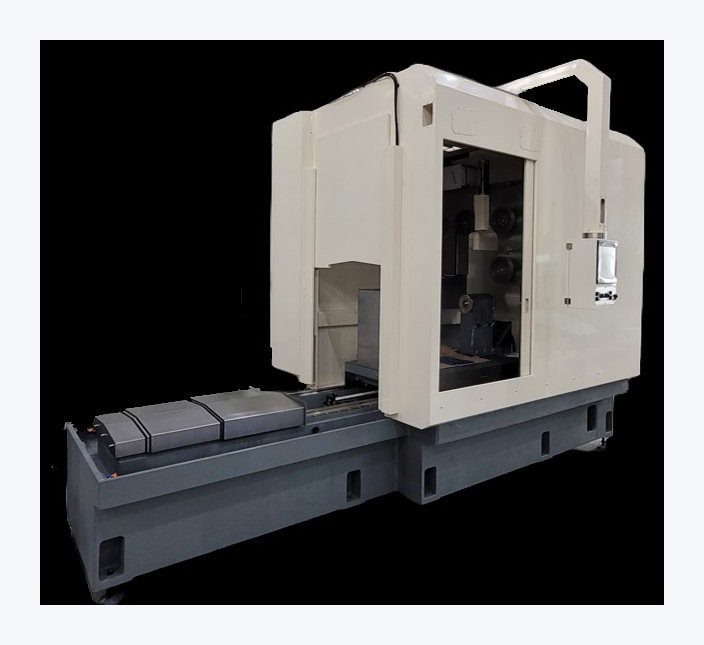
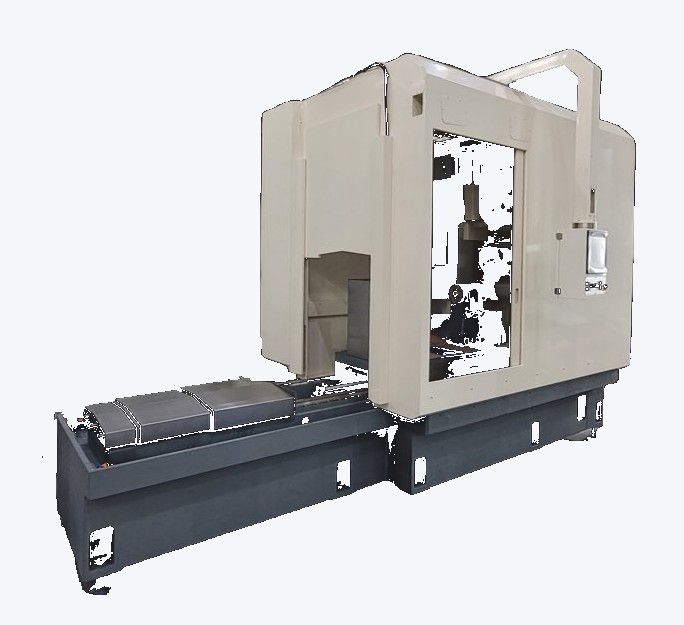
Fix: SLWS black background removed, directions map coordinates corrected, address unified

diff --git a/directions.html b/directions.html
@@ -20,7 +20,7 @@
 </head>
 <body class="snt-body-offset">
 <nav class="snt-nav"><div class="snt-nav__inner"><a href="index.html" class="snt-nav__logo"><img src="images/logo-en-horizontal.png" alt="Saehan Nanotech" onerror="this.style.display='none';this.nextElementSibling.style.display='flex';" style="height:36px;"><span class="snt-nav__logo-text" style="display:none;">Saehan Nanotech</span></a><div class="snt-nav__menu"><div class="snt-nav__item"><span class="snt-nav__link">About Us<svg viewBox="0 0 10 6" fill="none" stroke="currentColor" stroke-width="1.6"><path d="M1 1l4 4 4-4"/></svg></span><div class="snt-nav__dropdown"><a href="ceo.html" class="">CEO Greeting</a><a href="history.html" class="">History</a><a href="certifications.html" class="">Certifications</a><a href="directions.html" class="snt-current">Directions</a></div></div><div class="snt-nav__item"><span class="snt-nav__link">Machine<svg viewBox="0 0 10 6" fill="none" stroke="currentColor" stroke-width="1.6"><path d="M1 1l4 4 4-4"/></svg></span><div class="snt-nav__dropdown"><a href="machines.html" class="">Machine</a><a href="double-sided-drilling.html" class="">Both-Side Drilling Machine</a><a href="multi-wire-saw.html" class="">Multi Wire Sawing Machine</a><a href="single-wire-saw.html" class="">Single Wire Sawing Machine</a><a href="grinding-center.html" class="">Grinding Center Machine</a><a href="core-drilling.html" class="">Core Drilling Machine</a><a href="polishing.html" class="">Single Polishing Machine</a><a href="vertical-grinding.html" class="">Vertical Grinding Machine</a><a href="nano-imprinting.html" class="">Nano Imprinting Machine</a></div></div><div class="snt-nav__item"><span class="snt-nav__link">Business<svg viewBox="0 0 10 6" fill="none" stroke="currentColor" stroke-width="1.6"><path d="M1 1l4 4 4-4"/></svg></span><div class="snt-nav__dropdown"><a href="https://www.saehannanotech.com/Business" class="">Business</a><a href="https://www.saehannanotech.com/Researchperformance" class="">Research</a><a href="https://www.saehannanotech.com/Relatedbusiness" class="">Related Business</a></div></div><div class="snt-nav__item"><span class="snt-nav__link">Community<svg viewBox="0 0 10 6" fill="none" stroke="currentColor" stroke-width="1.6"><path d="M1 1l4 4 4-4"/></svg></span><div class="snt-nav__dropdown"><a href="notice.html" class="">Notice</a><a href="https://www.saehannanotech.com/CustomerSupport" class="">Customer Support</a><a href="https://www.saehannanotech.com/Recruit" class="">Careers</a></div></div></div><div class="snt-nav__right"><a href="https://www.saehannanotech.com" target="_blank" class="snt-nav__lang">KR</a><a href="mailto:info@saehannanotech.com" class="snt-nav__cta">Contact Us</a></div><button class="snt-nav__hamburger" aria-label="Menu"><span></span><span></span><span></span></button></div></nav><div class="snt-nav__mobile"><div class="snt-mobile-group"><span class="snt-mobile-label">About Us</span><a href="ceo.html" class="snt-mobile-link">CEO Greeting</a><a href="history.html" class="snt-mobile-link">History</a><a href="certifications.html" class="snt-mobile-link">Certifications</a><a href="directions.html" class="snt-mobile-link">Directions</a></div><div class="snt-mobile-group"><span class="snt-mobile-label">Machine</span><a href="machines.html" class="snt-mobile-link">Machine</a><a href="double-sided-drilling.html" class="snt-mobile-link">Both-Side Drilling Machine</a><a href="multi-wire-saw.html" class="snt-mobile-link">Multi Wire Sawing Machine</a><a href="single-wire-saw.html" class="snt-mobile-link">Single Wire Sawing Machine</a><a href="grinding-center.html" class="snt-mobile-link">Grinding Center Machine</a><a href="core-drilling.html" class="snt-mobile-link">Core Drilling Machine</a><a href="polishing.html" class="snt-mobile-link">Single Polishing Machine</a><a href="vertical-grinding.html" class="snt-mobile-link">Vertical Grinding Machine</a><a href="nano-imprinting.html" class="snt-mobile-link">Nano Imprinting Machine</a></div><div class="snt-mobile-group"><span class="snt-mobile-label">Business</span><a href="https://www.saehannanotech.com/Business" class="snt-mobile-link">Business</a><a href="https://www.saehannanotech.com/Researchperformance" class="snt-mobile-link">Research</a><a href="https://www.saehannanotech.com/Relatedbusiness" class="snt-mobile-link">Related Business</a></div><div class="snt-mobile-group"><span class="snt-mobile-label">Community</span><a href="notice.html" class="">Notice</a><a href="notice.html" class="snt-mobile-link">Notice</a><a href="https://www.saehannanotech.com/CustomerSupport" class="snt-mobile-link">Customer Support</a><a href="https://www.saehannanotech.com/Recruit" class="snt-mobile-link">Careers</a></div><div style="padding:16px 4px 0;"><a href="https://www.saehannanotech.com" target="_blank" style="display:block;padding:12px;font-size:13px;color:#6a7589;font-family:Pretendard,sans-serif;">🇰🇷 Korean Website</a><a href="mailto:info@saehannanotech.com" style="display:block;margin-top:8px;padding:13px;background:#1a6dff;color:#fff;border-radius:8px;font-weight:700;font-size:14px;text-align:center;font-family:Pretendard,sans-serif;">Contact Us</a></div></div>
-<style>.snt-pb{position:relative;min-height:300px;display:flex;align-items:flex-end;background-size:cover;background-position:center;padding:0 clamp(20px,4vw,48px) clamp(44px,5vw,68px);font-family:"Pretendard","Noto Sans KR",-apple-system,sans-serif;-webkit-font-smoothing:antialiased;}.snt-pb__overlay{position:absolute;inset:0;background:linear-gradient(to bottom,rgba(10,20,50,.3) 0%,rgba(10,20,50,.75) 100%);}.snt-pb__inner{position:relative;z-index:2;max-width:1280px;margin:0 auto;width:100%;}.snt-pb__eyebrow{display:inline-block;font-size:12px;font-weight:700;letter-spacing:.2em;text-transform:uppercase;color:rgba(255,255,255,.68);margin-bottom:10px;}.snt-pb__title{font-size:clamp(26px,3.8vw,50px);font-weight:800;color:#fff;letter-spacing:-.02em;line-height:1.15;margin-bottom:8px;}.snt-pb__sub{font-size:clamp(13px,1.3vw,15px);color:rgba(255,255,255,.72);line-height:1.7;max-width:640px;}</style><section class="snt-pb" style="background-image:url('https://cdn.imweb.me/thumbnail/20230113/791b284a7891f.jpg')"><div class="snt-pb__overlay"></div><div class="snt-pb__inner"><span class="snt-pb__eyebrow">ABOUT US</span><h1 class="snt-pb__title">Directions & Contact</h1><p class="snt-pb__sub">Headquarters and factory in Changwon, South Korea.</p></div></section><section class="snt-dir"><div class="snt-dir__inner"><div class="snt-dir__head" data-snt-reveal><span class="snt-dir__eyebrow">ABOUT US — DIRECTIONS &amp; CONTACT</span><h2 class="snt-dir__title">Headquarters &amp; <span class="snt-dir__accent">Factory</span></h2></div><div class="snt-dir__body" data-snt-reveal><div class="snt-dir__info"><div class="snt-dir__item"><div class="snt-dir__item-icon">📍</div><div><div class="snt-dir__item-label">Main Factory (Headquarters)</div><div class="snt-dir__item-val">59, Dongjeonsandandong-ro, Buk-myeon, Uichang-gu,<br>Changwon-si, Gyeongsangnam-do,<br>Republic of Korea (51147)</div></div></div><div class="snt-dir__item"><div class="snt-dir__item-icon">🏭</div><div><div class="snt-dir__item-label">2nd Factory — SNTECH</div><div class="snt-dir__item-val">5, Garyeon-ro, Chilseo-myeon,<br>Haman-gun, Gyeongsangnam-do</div></div></div><div class="snt-dir__item"><div class="snt-dir__item-icon">📞</div><div><div class="snt-dir__item-label">Phone</div><div class="snt-dir__item-val"><a href="tel:+82-55-586-1331">+82-55-586-1331</a></div></div></div><div class="snt-dir__item"><div class="snt-dir__item-icon">✉</div><div><div class="snt-dir__item-label">Email</div><div class="snt-dir__item-val"><a href="mailto:info@saehannanotech.com">info@saehannanotech.com</a></div></div></div><a href="https://maps.google.com/?q=Saehan+Nanotech+Changwon+Korea" target="_blank" class="snt-dir__map-btn">View on Google Maps →</a></div><div class="snt-dir__map"><iframe src="https://maps.google.com/maps?q=35.32,128.57&output=embed" width="100%" height="100%" style="border:0;border-radius:16px;" allowfullscreen loading="lazy" title="Saehan Nanotech Location"></iframe></div></div></div></section><style>.snt-dir{--snt-blue:#1a6dff;--snt-blue-soft:#eaf1ff;--snt-navy:#0f1a33;--snt-muted:#6a7589;--snt-line:#e6e9f0;background:#fff;padding:clamp(60px,8vw,110px) clamp(20px,4vw,48px);font-family:"Pretendard","Noto Sans KR",-apple-system,sans-serif;-webkit-font-smoothing:antialiased;}.snt-dir *{box-sizing:border-box;}.snt-dir__inner{max-width:1280px;margin:0 auto;}.snt-dir__head{margin-bottom:clamp(40px,5vw,56px);opacity:0;transform:translateY(24px);transition:opacity .8s cubic-bezier(.2,.7,.2,1),transform .8s cubic-bezier(.2,.7,.2,1);}.snt-dir__head.is-visible{opacity:1;transform:translateY(0);}.snt-dir__eyebrow{display:inline-block;font-size:13px;font-weight:700;letter-spacing:.22em;color:var(--snt-blue);margin-bottom:12px;}.snt-dir__title{font-size:clamp(28px,3.5vw,44px);font-weight:800;color:var(--snt-navy);letter-spacing:-.02em;line-height:1.2;}.snt-dir__accent{color:var(--snt-blue);}.snt-dir__body{display:grid;grid-template-columns:1fr 1fr;gap:48px;align-items:start;opacity:0;transform:translateY(24px);transition:opacity .8s .1s cubic-bezier(.2,.7,.2,1),transform .8s .1s cubic-bezier(.2,.7,.2,1);}.snt-dir__body.is-visible{opacity:1;transform:translateY(0);}.snt-dir__info{display:flex;flex-direction:column;gap:22px;}.snt-dir__item{display:flex;gap:14px;align-items:flex-start;}.snt-dir__item-icon{width:40px;height:40px;background:var(--snt-blue-soft);border-radius:10px;display:flex;align-items:center;justify-content:center;font-size:18px;flex-shrink:0;}.snt-dir__item-label{font-size:11px;font-weight:700;color:var(--snt-blue);letter-spacing:.1em;text-transform:uppercase;margin-bottom:4px;}.snt-dir__item-val{font-size:14px;color:#1b2333;line-height:1.7;}.snt-dir__item-val a{color:inherit;}.snt-dir__map-btn{display:inline-block;margin-top:8px;background:var(--snt-blue);color:#fff;padding:12px 24px;border-radius:10px;font-weight:700;font-size:14px;text-decoration:none;}.snt-dir__map{height:440px;border-radius:16px;overflow:hidden;border:1px solid var(--snt-line);}@media(max-width:768px){.snt-dir__body{grid-template-columns:1fr;}.snt-dir__map{height:300px;}}</style>
+<style>.snt-pb{position:relative;min-height:300px;display:flex;align-items:flex-end;background-size:cover;background-position:center;padding:0 clamp(20px,4vw,48px) clamp(44px,5vw,68px);font-family:"Pretendard","Noto Sans KR",-apple-system,sans-serif;-webkit-font-smoothing:antialiased;}.snt-pb__overlay{position:absolute;inset:0;background:linear-gradient(to bottom,rgba(10,20,50,.3) 0%,rgba(10,20,50,.75) 100%);}.snt-pb__inner{position:relative;z-index:2;max-width:1280px;margin:0 auto;width:100%;}.snt-pb__eyebrow{display:inline-block;font-size:12px;font-weight:700;letter-spacing:.2em;text-transform:uppercase;color:rgba(255,255,255,.68);margin-bottom:10px;}.snt-pb__title{font-size:clamp(26px,3.8vw,50px);font-weight:800;color:#fff;letter-spacing:-.02em;line-height:1.15;margin-bottom:8px;}.snt-pb__sub{font-size:clamp(13px,1.3vw,15px);color:rgba(255,255,255,.72);line-height:1.7;max-width:640px;}</style><section class="snt-pb" style="background-image:url('https://cdn.imweb.me/thumbnail/20230113/791b284a7891f.jpg')"><div class="snt-pb__overlay"></div><div class="snt-pb__inner"><span class="snt-pb__eyebrow">ABOUT US</span><h1 class="snt-pb__title">Directions & Contact</h1><p class="snt-pb__sub">Headquarters and factory in Changwon, South Korea.</p></div></section><section class="snt-dir"><div class="snt-dir__inner"><div class="snt-dir__head" data-snt-reveal><span class="snt-dir__eyebrow">ABOUT US — DIRECTIONS &amp; CONTACT</span><h2 class="snt-dir__title">Headquarters &amp; <span class="snt-dir__accent">Factory</span></h2></div><div class="snt-dir__body" data-snt-reveal><div class="snt-dir__info"><div class="snt-dir__item"><div class="snt-dir__item-icon">📍</div><div><div class="snt-dir__item-label">Main Factory (Headquarters)</div><div class="snt-dir__item-val">59, Dongjeonsandandong-ro, Buk-myeon, Uichang-gu,<br>Changwon-si, Gyeongsangnam-do,<br>Republic of Korea (51147)</div></div></div><div class="snt-dir__item"><div class="snt-dir__item-icon">🏭</div><div><div class="snt-dir__item-label">2nd Factory — SNTECH</div><div class="snt-dir__item-val">5, Garyeon-ro, Chilseo-myeon,<br>Haman-gun, Gyeongsangnam-do</div></div></div><div class="snt-dir__item"><div class="snt-dir__item-icon">📞</div><div><div class="snt-dir__item-label">Phone</div><div class="snt-dir__item-val"><a href="tel:+82-55-586-1331">+82-55-586-1331</a></div></div></div><div class="snt-dir__item"><div class="snt-dir__item-icon">✉</div><div><div class="snt-dir__item-label">Email</div><div class="snt-dir__item-val"><a href="mailto:info@saehannanotech.com">info@saehannanotech.com</a></div></div></div><a href="https://maps.google.com/?q=Saehan+Nanotech+Changwon+Korea" target="_blank" class="snt-dir__map-btn">View on Google Maps →</a></div><div class="snt-dir__map"><iframe src="https://www.google.com/maps/embed?pb=!1m18!1m12!1m3!1d3000!2d128.6625!3d35.2931!2m3!1f0!2f0!3f0!3m2!1i1024!2i768!4f13.1!3m3!1m2!1s0x0%3A0x0!2zMzXCsDE3JzM1LjIiTiAxMjjCsDM5JzQ1LjAiRQ!5e0!3m2!1sko!2skr!4v1" width="100%" height="400" style="border:0;border-radius:16px;" allowfullscreen="" loading="lazy"></iframe></div></div></div></section><style>.snt-dir{--snt-blue:#1a6dff;--snt-blue-soft:#eaf1ff;--snt-navy:#0f1a33;--snt-muted:#6a7589;--snt-line:#e6e9f0;background:#fff;padding:clamp(60px,8vw,110px) clamp(20px,4vw,48px);font-family:"Pretendard","Noto Sans KR",-apple-system,sans-serif;-webkit-font-smoothing:antialiased;}.snt-dir *{box-sizing:border-box;}.snt-dir__inner{max-width:1280px;margin:0 auto;}.snt-dir__head{margin-bottom:clamp(40px,5vw,56px);opacity:0;transform:translateY(24px);transition:opacity .8s cubic-bezier(.2,.7,.2,1),transform .8s cubic-bezier(.2,.7,.2,1);}.snt-dir__head.is-visible{opacity:1;transform:translateY(0);}.snt-dir__eyebrow{display:inline-block;font-size:13px;font-weight:700;letter-spacing:.22em;color:var(--snt-blue);margin-bottom:12px;}.snt-dir__title{font-size:clamp(28px,3.5vw,44px);font-weight:800;color:var(--snt-navy);letter-spacing:-.02em;line-height:1.2;}.snt-dir__accent{color:var(--snt-blue);}.snt-dir__body{display:grid;grid-template-columns:1fr 1fr;gap:48px;align-items:start;opacity:0;transform:translateY(24px);transition:opacity .8s .1s cubic-bezier(.2,.7,.2,1),transform .8s .1s cubic-bezier(.2,.7,.2,1);}.snt-dir__body.is-visible{opacity:1;transform:translateY(0);}.snt-dir__info{display:flex;flex-direction:column;gap:22px;}.snt-dir__item{display:flex;gap:14px;align-items:flex-start;}.snt-dir__item-icon{width:40px;height:40px;background:var(--snt-blue-soft);border-radius:10px;display:flex;align-items:center;justify-content:center;font-size:18px;flex-shrink:0;}.snt-dir__item-label{font-size:11px;font-weight:700;color:var(--snt-blue);letter-spacing:.1em;text-transform:uppercase;margin-bottom:4px;}.snt-dir__item-val{font-size:14px;color:#1b2333;line-height:1.7;}.snt-dir__item-val a{color:inherit;}.snt-dir__map-btn{display:inline-block;margin-top:8px;background:var(--snt-blue);color:#fff;padding:12px 24px;border-radius:10px;font-weight:700;font-size:14px;text-decoration:none;}.snt-dir__map{height:440px;border-radius:16px;overflow:hidden;border:1px solid var(--snt-line);}@media(max-width:768px){.snt-dir__body{grid-template-columns:1fr;}.snt-dir__map{height:300px;}}</style>
 
 <!-- CTA -->
 <section class="snt-cta-bottom">

diff --git a/notice/notice-changwon-expansion-2022.html b/notice/notice-changwon-expansion-2022.html
@@ -35,7 +35,7 @@
 <li>Increased capacity for simultaneous multi-machine production runs</li>
 </ul>
 <p>The SNTECH affiliate company was also established at the same time, providing precision contract machining services using Saehan Nanotech's own machine tools — vertically integrating from equipment manufacturing to machining services.</p>
-<p>The new headquarters is located at 59, Dongjeon Sandan-dongro, Buk-myeon, Uichang-gu, Changwon-si, Gyeongsangnam-do, Korea.</p>
+<p>The new headquarters is located at 59, Dongjeonsandandong-ro, Buk-myeon, Uichang-gu, Changwon-si, Gyeongsangnam-do, Korea.</p>
     </div>
     <div class="nt-article__footer" data-snt-reveal>
       <a href="../notice.html" class="nt-article__btn">← Back to All Notices</a>

diff --git a/contact.html b/contact.html
@@ -48,7 +48,7 @@
           <span class="ct-contact__card-icon">📍</span>
           <div>
             <h3>Headquarters</h3>
-            <p>59, Dongjeon Sandan-dongro,<br>Buk-myeon, Uichang-gu,<br>Changwon-si, Gyeongsangnam-do, Korea</p>
+            <p>59, Dongjeonsandandong-ro,<br>Buk-myeon, Uichang-gu,<br>Changwon-si, Gyeongsangnam-do, Korea</p>
           </div>
         </div>
         <div class="ct-contact__card">
